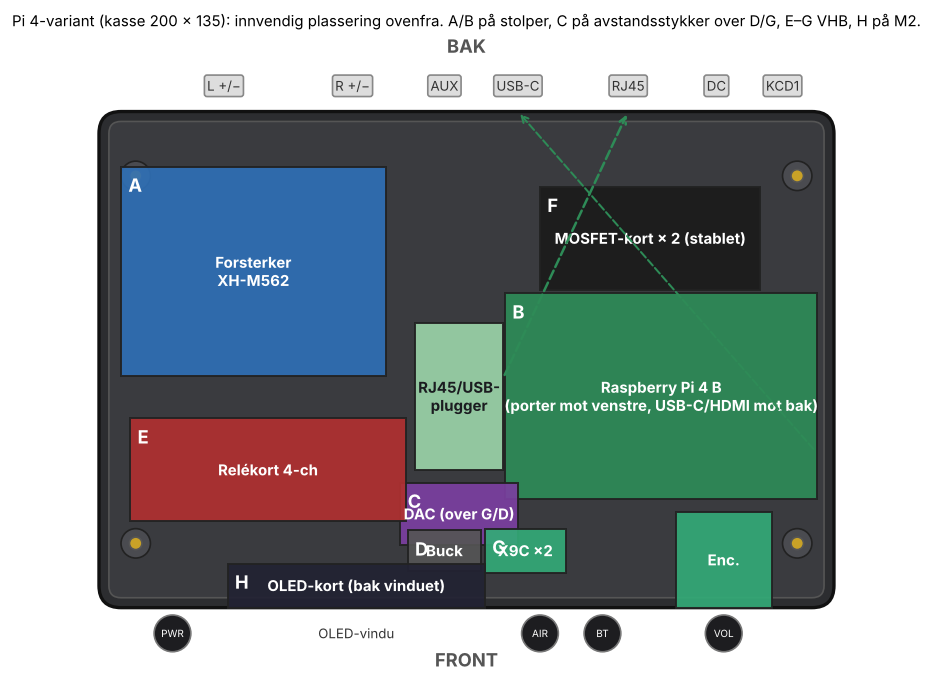
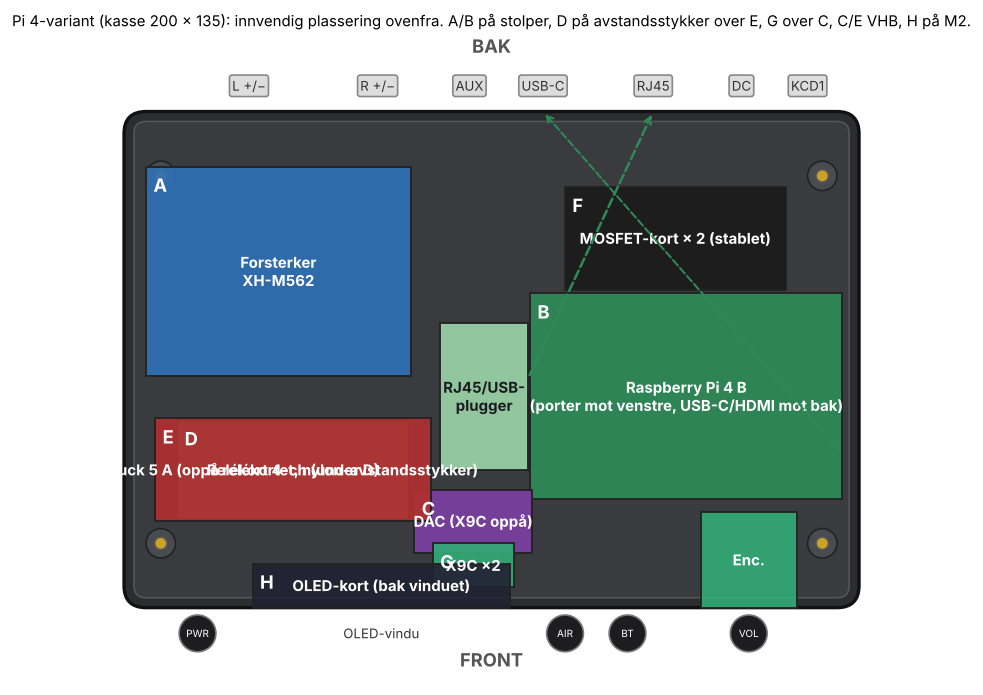
Pi 4-plan: buck 5 A oppå relékortet, X9C oppå DAC
Claude-Session: https://claude.ai/code/session_01FaJKmYinw8SWRobKXBRYpt

diff --git a/kabinett/tools/render_plan_pi4.py b/kabinett/tools/render_plan_pi4.py
@@ -21,11 +21,11 @@ def box(x, y, w, d, name, color, txt="white", tag=None):
 box(-58, 24, 72, 57, "Forsterker\nXH-M562", "#2f6fb5", tag="A")
 box(53, -10, 85, 56, "Raspberry Pi 4 B\n(porter mot venstre, USB-C/HDMI mot bak)", "#2e8b57", tag="B")
 box(-2, -10, 24, 40, "RJ45/USB-\nplugger", "#9ad3a8", txt="#1b1c20")
-box(-2, -42, 32, 17, "DAC (over G/D)", "#7b3fa0", tag="C")
-box(-6, -52, 20, 11, "Buck", "#555", tag="D")
-box(-54, -30, 75, 28, "Relékort 4-ch", "#b03030", tag="E")
+box(-5, -44, 32, 17, "DAC (X9C oppå)", "#7b3fa0", tag="C")
+box(-54, -30, 63, 27, "Buck 5 A (oppå relékortet, nylon-avstandsstykker)", "#777", tag="D")
+box(-54, -30, 75, 28, "Relékort 4-ch (under D)", "#b03030", tag="E")
 box(50, 33, 60, 28, "MOSFET-kort × 2 (stablet)", "#1b1b1b", tag="F")
-box(16, -52, 22, 12, "X9C ×2", "#3a7", tag="G")
+box(-5, -56, 22, 12, "X9C ×2", "#3a7", tag="G")
 box(-30, -D/2+6, 70, 12, "OLED-kort (bak vinduet)", "#223", tag="H")
 box(70, -D/2+13, 26, 26, "Enc.", "#3a7")
 # front/bak-elementer
@@ -38,5 +38,5 @@ ax.text(0, -D/2-16, "FRONT", ha="center", fontsize=11, fontweight="bold", color=
 ax.text(0, D/2+16, "BAK", ha="center", fontsize=11, fontweight="bold", color="#555")
 ax.annotate("", (44, D/2), (10, -5), arrowprops=dict(arrowstyle="->", color="#2e8b57", lw=1.5, ls="--")); ax.annotate("", (14, D/2), (95, -25), arrowprops=dict(arrowstyle="->", color="#2e8b57", lw=1.2, ls="--"))
 ax.set_xlim(-115, 115); ax.set_ylim(-88, 88); ax.set_aspect("equal"); ax.axis("off")
-ax.set_title("Pi 4-variant (kasse 200 × 135): innvendig plassering ovenfra. A/B på stolper, C på avstandsstykker over D/G, E–G VHB, H på M2.", fontsize=9)
+ax.set_title("Pi 4-variant (kasse 200 × 135): innvendig plassering ovenfra. A/B på stolper, D på avstandsstykker over E, G over C, C/E VHB, H på M2.", fontsize=9)
 fig.savefig("guide_04_inni_pi4.png", dpi=120, bbox_inches="tight"); print("ok")
